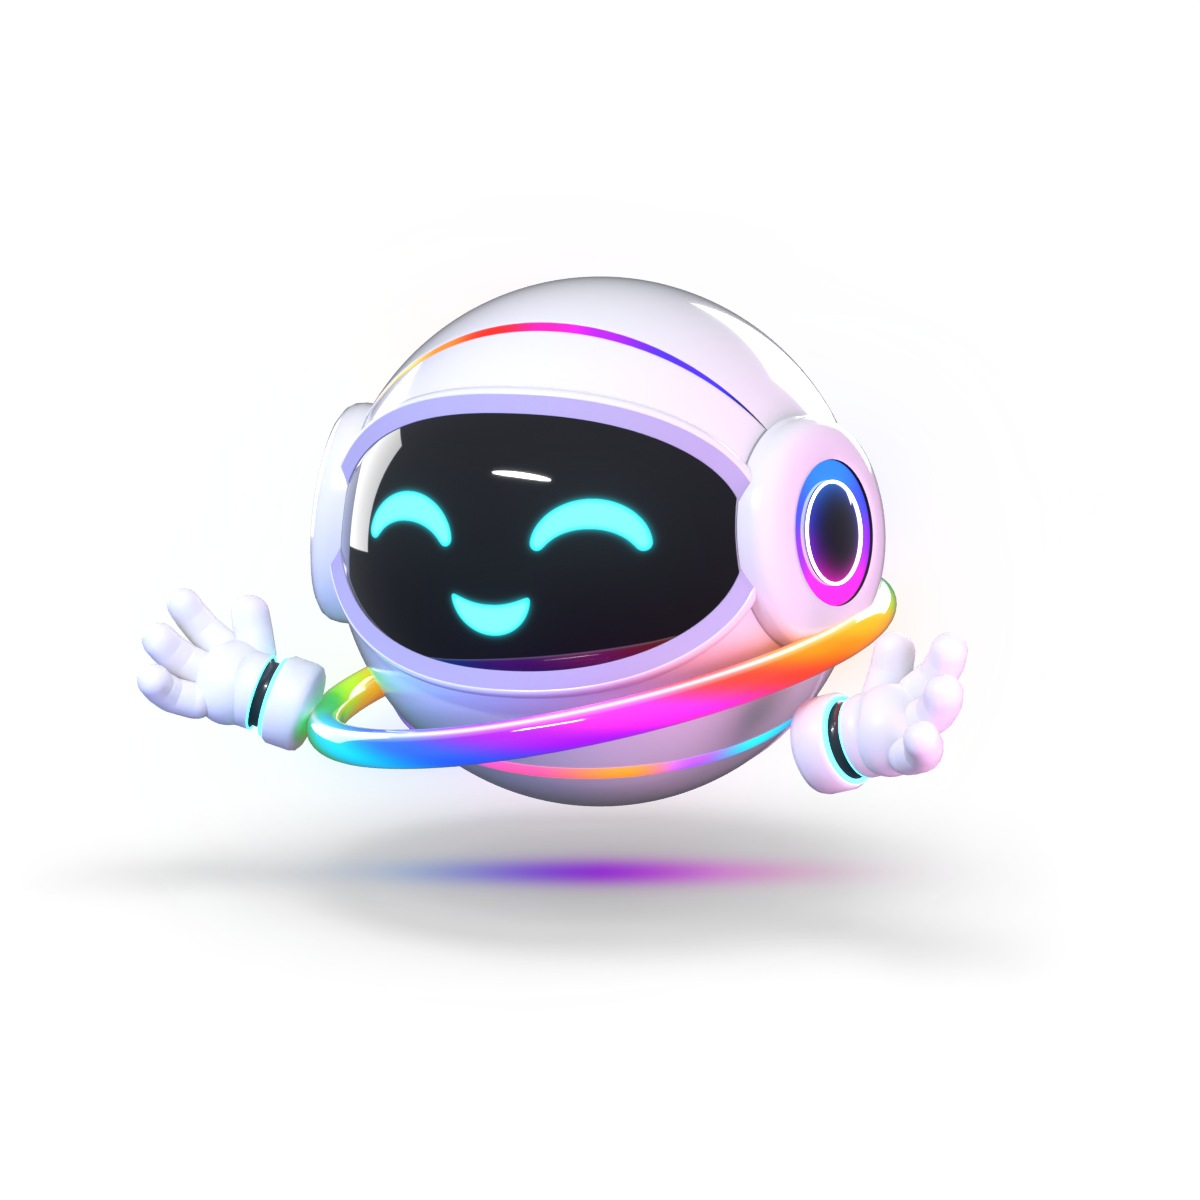
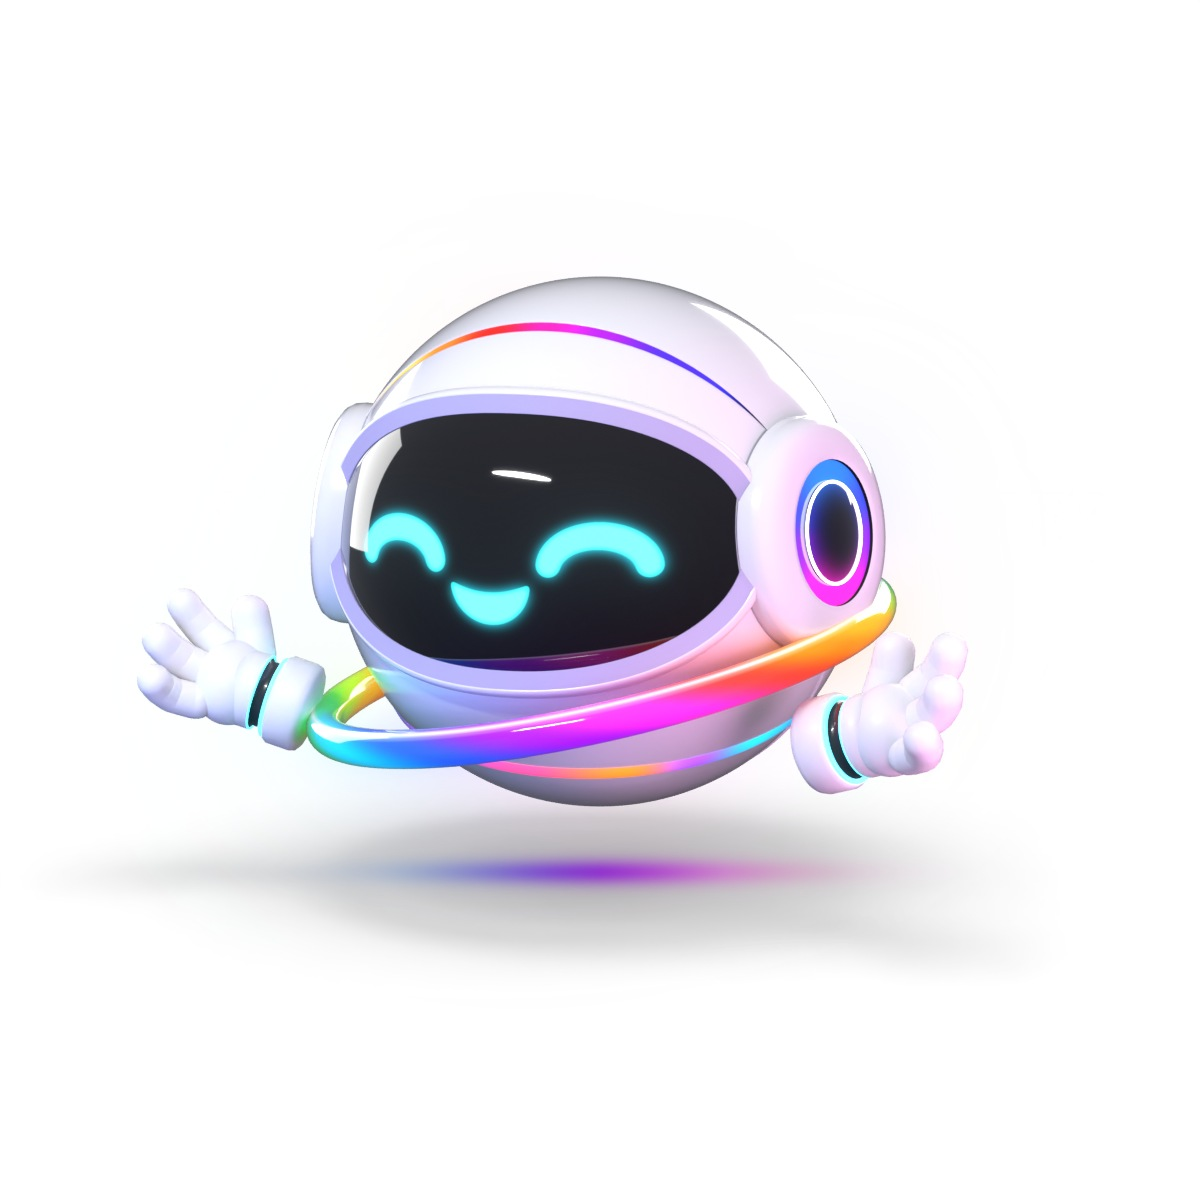
Character version 3: face to the reference
Wide, round eye arches of even thickness with fat round ends, the bowl smile
just under them, a paler centre and a softer, wider glow.

Claude-Session: https://claude.ai/code/session_011BdSE2fEeiEv9ZgoYmWAPn

Changed region(s): [[0.2775, 0.4008, 0.5858, 0.555]]

diff --git a/design/hero/character/v3/build.py b/design/hero/character/v3/build.py
@@ -398,8 +398,8 @@ def face_image(kind, blush=False):
         (a, b), (c, e) = P(x - w / 2, z + h / 2), P(x + w / 2, z - h / 2); d.rounded_rectangle((a, b, c, e), radius=r * PX * SS, outline=255, width=round(width * PX * SS))
     EX, EZ = 0.345, 0.125
     if kind == 'happy':
-        for sx in (-1, 1): arc(sx * EX, EZ - 0.055, 0.18, 0.15, 18, 162, 0.1, taper=0.5)
-        smile(0, -0.065, 0.3, 0.15, sag=0.04)
+        for sx in (-1, 1): arc(sx * 0.375, 0.03, 0.162, 0.115, 6, 174, 0.092, taper=0.1)   # wide, round arches, even thickness, fat round ends   # round arcs, even thickness, fat round ends that come well down
+        smile(0, -0.025, 0.3, 0.15, sag=0.035)                                                  # just under the eyes' ends
     elif kind == 'thinking':
         disc(-0.29, EZ, 0.075); disc(0.29, EZ, 0.075)
         arc(-0.31, EZ + 0.06, 0.11, 0.06, 70, 130, 0.035); arc(0.29, EZ + 0.08, 0.1, 0.07, 30, 150, 0.035)
@@ -426,9 +426,9 @@ def face_image(kind, blush=False):
                     if ((x - cx) / 0.085) ** 2 + ((z - cz) / 0.055) ** 2 <= 1: disc(x, z, 0.0042, fill=150)
     im = im.resize((TW, TH), Image.LANCZOS)
     im = im.filter(ImageFilter.GaussianBlur(7)).point(lambda v: 255 if v > 127 else 0).filter(ImageFilter.GaussianBlur(1.3))   # every corner softly rounded
-    core = im.filter(ImageFilter.GaussianBlur(9)).point(lambda v: 255 if v > 200 else int(v * v / 200 / 1.3)).filter(ImageFilter.GaussianBlur(4)); glow = im.filter(ImageFilter.GaussianBlur(14)).point(lambda v: min(255, int(v * 1.1)))
+    core = im.filter(ImageFilter.GaussianBlur(9)).point(lambda v: 255 if v > 200 else int(v * v / 200 / 1.3)).filter(ImageFilter.GaussianBlur(4)); glow = im.filter(ImageFilter.GaussianBlur(22)).point(lambda v: min(255, int(v * 1.4)))   # a soft, wide glow round the face
     CY = (20, 225, 255)
-    layers = [Image.merge('RGB', [m.point(lambda v, k=k: int(v * k / 255)) for k in c]) for m, c in ((glow, CY), (im, CY), (core, (90, 30, 0)))]
+    layers = [Image.merge('RGB', [m.point(lambda v, k=k: int(v * k / 255)) for k in c]) for m, c in ((glow, CY), (im, CY), (core, (150, 30, 0)))]
     out = ImageChops.add(ImageChops.add(layers[0], layers[1]), layers[2])
     path = os.path.join(OUT, 'face-%s%s.png' % (kind, '-blush' if blush else '')); out.save(path); return path
 

diff --git a/design/hero/character/v3/final.py b/design/hero/character/v3/final.py
@@ -104,6 +104,9 @@ if 'preview' in SHOTS:
     G['turn'](-22); frame(); shot('final-preview', 480, 48)
 if 'top' in SHOTS:                                               # a close look at the top of the head, at full size
     G['turn'](-22); frame(target=(0.19, 0, 0.65), lens=175); shot('final-top', 600, 160, w=1400, floor=False)
+if 'face' in SHOTS:                                              # the face, close
+    G['turn'](-22); bpy.context.view_layer.update(); fc = root.matrix_world @ Vector((0, -1.0, 0.1))
+    frame(target=tuple(fc), lens=250); shot('final-face', 560, 128, w=1080, floor=False)
 if 'ear' in SHOTS:                                               # the near ear, close
     G['turn'](-22); bpy.context.view_layer.update(); ec = root.matrix_world @ (G['on_sphere'](G['EAR_LON'], G['EAR_LAT']) * 1.0)
     frame(target=tuple(ec), lens=400); shot('final-ear', 900, 128, w=900, floor=False)
